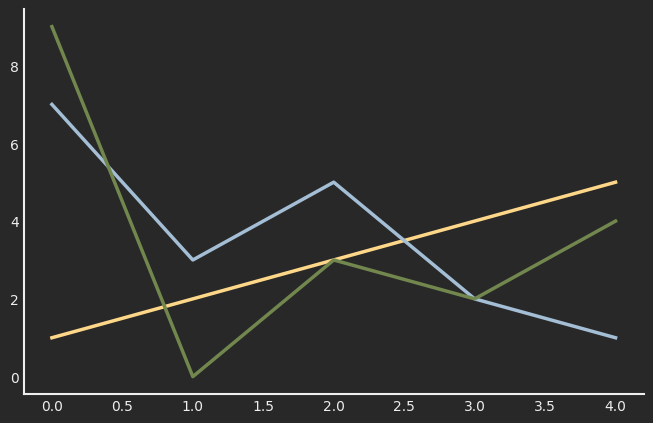
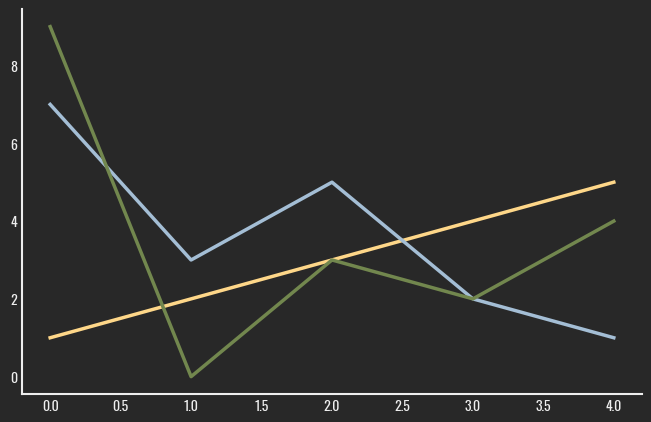
doc

diff --git a/morethemes/themes.py b/morethemes/themes.py
@@ -3,6 +3,7 @@ from morethemes.fonts import set_family_from_file
 
 darker_theme = {
     "name": "darker",
+    "description": "My very first theme. I wanted to create something simple and a dark theme.",
     "author": "Joseph Barbier",
     "theme": {
         "font.family": set_family_from_file("Oswald.ttf"),
@@ -32,6 +33,7 @@ darker_theme = {
 
 yellowish_theme = {
     "name": "yellowish",
+    "description": "The background yellow comes from a nice National Geographic visualisation, and I think it looks pretty cool with the black and white visuals.",
     "author": "Joseph Barbier",
     "theme": {
         "font.family": set_family_from_file("Delius.ttf"),
@@ -63,6 +65,7 @@ yellowish_theme = {
 
 urban_theme = {
     "name": "urban",
+    "description": "I wanted to make a theme that used the Urbanist font, with a clean professional look. And here it is.",
     "author": "Joseph Barbier",
     "theme": {
         "font.family": set_family_from_file("Urbanist.ttf"),
@@ -91,6 +94,7 @@ urban_theme = {
 
 wsj_theme = {
     "name": "wsj",
+    "description": "A theme inspired by the Wall Street Journal.",
     "author": "Joseph Barbier",
     "theme": {
         "font.family": set_family_from_file("Crimson.ttf"),

diff --git a/docs/scripts/make.py b/docs/scripts/make.py
@@ -1,9 +1,9 @@
-## quick start
-
 import matplotlib.pyplot as plt
 import morethemes as mt
 
 plt.rcParams["savefig.dpi"] = 200
+
+## quick start
 
 mt.set_theme("darker")
 
@@ -13,4 +13,45 @@ ax.plot([7, 3, 5, 2, 1])
 ax.plot([9, 0, 3, 2, 4])
 plt.savefig("docs/img/quickstart.png", bbox_inches="tight")
 
-##
+## gallery
+
+for theme in mt.ALL_THEMES:
+    mt.preview_theme(theme=theme)
+    plt.savefig(f"docs/img/{theme}.png", bbox_inches="tight")
+
+
+def code_and_image(theme: str):
+    content = f"""
+### {theme.title()}
+
+{mt.ALL_THEMES[theme]["description"]}
+
+```python
+import matplotlib.pyplot as plt
+import morethemes as mt
+
+mt.set_theme("{theme}")
+```
+
+<center>![](img/{theme}.png)</center>
+
+<br>
+"""
+    return content
+
+
+def top_of_README():
+    content = """
+<!-- Automatically generated, do not change by hand. Use docs/script/gallery.py instead. -->
+
+"""
+    return content
+
+
+readme_content = top_of_README()
+for theme in mt.ALL_THEMES:
+    dataset_content = code_and_image(theme)
+    readme_content += dataset_content
+
+with open("docs/gallery.md", "w", encoding="utf-8") as f:
+    f.write(readme_content)

diff --git a/tests/test_main.py b/tests/test_main.py
@@ -17,12 +17,17 @@ def test_valid_themes():
         assert "name" in mt.ALL_THEMES[theme].keys()
         assert "author" in mt.ALL_THEMES[theme].keys()
         assert "theme" in mt.ALL_THEMES[theme].keys()
+        assert "description" in mt.ALL_THEMES[theme].keys()
+        assert len(mt.ALL_THEMES[theme]["description"]) < 200, (
+            f"The description of theme {theme} has too many characters. "
+            f"It must be below 200, not {len(mt.ALL_THEMES[theme]['description'])}"
+        )
         mt.set_theme(theme)
 
 
 def test_set_theme_default():
     """Check that resetting the default style actually works"""
-    plt.rcParams["lines.linewidth"] = 3.14
+    plt.rcParams["lines.linewidth"] = 3.1415
     plt.rcParams["axes.titlesize"] = "medium"
 
     mt.set_theme("default")

diff --git a/docs/gallery.md b/docs/gallery.md
@@ -1,1 +1,63 @@
-TODO
+
+<!-- Automatically generated, do not change by hand. Use docs/script/gallery.py instead. -->
+
+
+### Darker
+
+My very first theme. I wanted to create something simple and a dark theme.
+
+```python
+import matplotlib.pyplot as plt
+import morethemes as mt
+
+mt.set_theme("darker")
+```
+
+<center>![](img/darker.png)</center>
+
+<br>
+
+### Yellowish
+
+The background yellow comes from a nice National Geographic visualisation, and I think it looks pretty cool with the black and white visuals.
+
+```python
+import matplotlib.pyplot as plt
+import morethemes as mt
+
+mt.set_theme("yellowish")
+```
+
+<center>![](img/yellowish.png)</center>
+
+<br>
+
+### Urban
+
+I wanted to make a theme that used the Urbanist font, with a clean professional look. And here it is.
+
+```python
+import matplotlib.pyplot as plt
+import morethemes as mt
+
+mt.set_theme("urban")
+```
+
+<center>![](img/urban.png)</center>
+
+<br>
+
+### Wsj
+
+A theme inspired by the Wall Street Journal.
+
+```python
+import matplotlib.pyplot as plt
+import morethemes as mt
+
+mt.set_theme("wsj")
+```
+
+<center>![](img/wsj.png)</center>
+
+<br>
